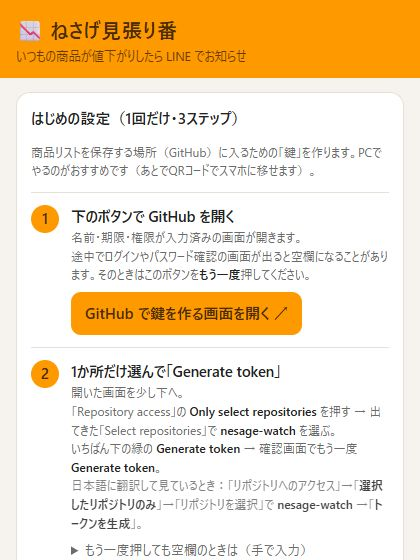
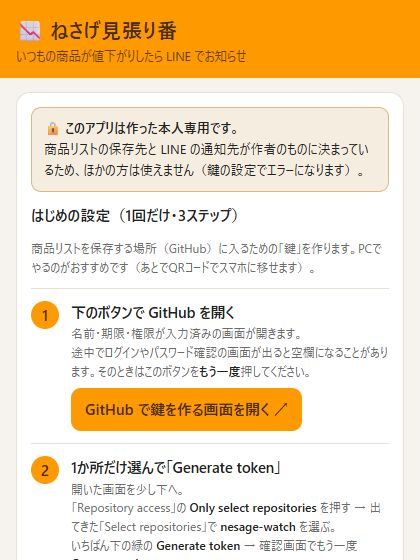
自動公開 / 更新: amazon-nesage

diff --git a/apps/amazon-nesage/index.html b/apps/amazon-nesage/index.html
@@ -8,7 +8,7 @@
 <meta charset="utf-8">
 <meta name="viewport" content="width=device-width, initial-scale=1, viewport-fit=cover">
 <title>ねさげ見張り番</title>
-<meta name="description" content="Amazonでいつも買う商品を登録しておくと、値下がりしたときにLINEで教えてくれます">
+<meta name="description" content="作者専用：Amazonでいつも買う商品が値下がりしたらLINEで知らせるアプリ">
 <meta name="theme-color" content="#ff9900">
 <style>
 :root {
@@ -63,6 +63,8 @@ details summary { cursor: pointer; color: var(--sub); font-size: 13px; }
 ol { padding-left: 20px; margin: 6px 0; font-size: 13.5px; }
 code { font-size: 12.5px; background: var(--bg); padding: 1px 5px; border-radius: 5px; }
 .hidden { display: none !important; }
+.notice { font-size: 13px; line-height: 1.6; padding: 10px 12px; margin-bottom: 12px; border-radius: 10px;
+  background: color-mix(in srgb, var(--warn) 12%, transparent); border: 1px solid color-mix(in srgb, var(--warn) 40%, transparent); }
 .step { display: grid; grid-template-columns: 30px 1fr; gap: 10px; padding: 12px 0; border-top: 1px solid var(--line); }
 .step > div > b { font-size: 14.5px; }
 .step .meta b { font-weight: 700; }
@@ -77,6 +79,7 @@ a.btn { display: inline-block; margin-top: 8px; padding: 10px 14px; border-radiu
 </header>
 <main>
   <section id="setup" class="box hidden">
+    <div class="notice">🔒 <b>このアプリは作った本人専用です。</b><br>商品リストの保存先と LINE の通知先が作者のものに決まっているため、ほかの方は使えません（鍵の設定でエラーになります）。</div>
     <h2>はじめの設定（1回だけ・3ステップ）</h2>
     <p class="meta">商品リストを保存する場所（GitHub）に入るための「鍵」を作ります。PCでやるのがおすすめです（あとでQRコードでスマホに移せます）。</p>
 
